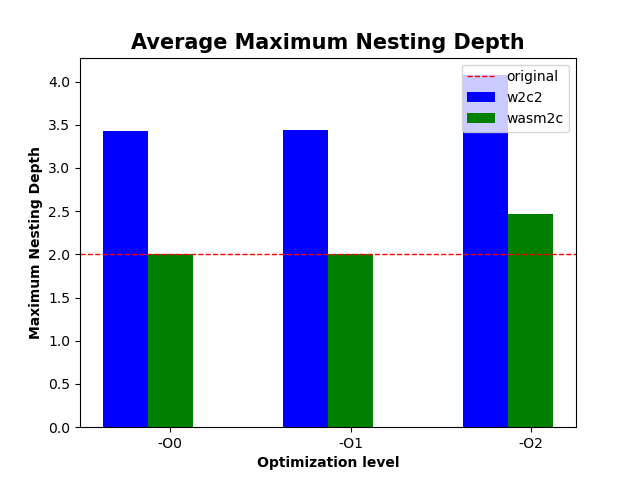
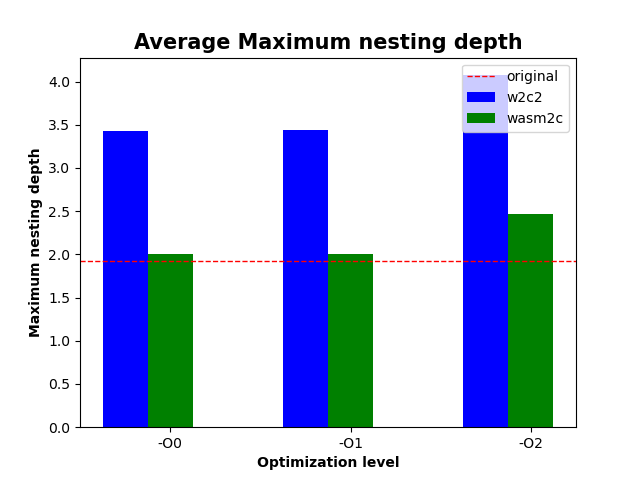
Plot average change from original source code

diff --git a/metrics/analysis/plot_results.py b/metrics/analysis/plot_results.py
@@ -1,12 +1,15 @@
 from pathlib import Path
 import json
 import statistics
+import logging
 
 import matplotlib.pyplot as plt
 import numpy as np
 
 
 def main():
+    configure_logger(logging.INFO)
+
     results_dir = Path(__file__).absolute().parent.parent / "results"
 
     data = {
@@ -29,9 +32,9 @@ def main():
         "Lines of code",
         "Halstead complexity difficulty measure",
         "McCabe cyclomatic complexity",
-        "Maximum Nesting Depth",
+        "Maximum nesting depth",
     ]:
-        plot_metric_averages(metric, data)
+        # plot_metric_averages(metric, data)
         plot_average_metric_changes(metric, data)
 
 
@@ -82,8 +85,127 @@ def plot_metric_averages(metric, data):
 
 
 def plot_average_metric_changes(metric, data):
-    # TODO: implement
-    pass
+    plot_data = get_average_metric_changes(metric, data)
+    print(json.dumps(plot_data, indent=2))
+
+    bar_width = 0.25
+    fig = plt.subplots()
+
+    w2c2_averages = [
+        plot_data["o0_w2c2"]["average"],
+        plot_data["o1_w2c2"]["average"],
+        plot_data["o2_w2c2"]["average"],
+    ]
+    wasm2c_averages = [
+        plot_data["o0_wasm2c"]["average"],
+        plot_data["o1_wasm2c"]["average"],
+        plot_data["o2_wasm2c"]["average"],
+    ]
+    w2c2_margins_from_average = [
+        [
+            plot_data["o0_w2c2"]["average"] - plot_data["o0_w2c2"]["min"],
+            plot_data["o1_w2c2"]["average"] - plot_data["o1_w2c2"]["min"],
+            plot_data["o2_w2c2"]["average"] - plot_data["o2_w2c2"]["min"],
+        ],
+        [
+            plot_data["o0_w2c2"]["max"] - plot_data["o0_w2c2"]["average"],
+            plot_data["o1_w2c2"]["max"] - plot_data["o1_w2c2"]["average"],
+            plot_data["o2_w2c2"]["max"] - plot_data["o2_w2c2"]["average"],
+        ],
+    ]
+    wasm2c_margins_from_average = [
+        [
+            plot_data["o0_wasm2c"]["average"] - plot_data["o0_wasm2c"]["min"],
+            plot_data["o1_wasm2c"]["average"] - plot_data["o1_wasm2c"]["min"],
+            plot_data["o2_wasm2c"]["average"] - plot_data["o2_wasm2c"]["min"],
+        ],
+        [
+            plot_data["o0_wasm2c"]["max"] - plot_data["o0_wasm2c"]["average"],
+            plot_data["o1_wasm2c"]["max"] - plot_data["o1_wasm2c"]["average"],
+            plot_data["o2_wasm2c"]["max"] - plot_data["o2_wasm2c"]["average"],
+        ],
+    ]
+
+    br1 = np.arange(len(w2c2_averages))
+    br2 = [x + bar_width for x in br1]
+
+    plt.bar(
+        br1,
+        w2c2_averages,
+        yerr=w2c2_margins_from_average,
+        capsize=10,
+        color="b",
+        width=bar_width,
+        label="w2c2",
+    )
+    plt.bar(
+        br2,
+        wasm2c_averages,
+        yerr=wasm2c_margins_from_average,
+        capsize=10,
+        color="g",
+        width=bar_width,
+        label="wasm2c",
+    )
+
+    plt.title(
+        f"Average change from original code\nfor metric '{metric}'",
+        fontweight="bold",
+        fontsize=15,
+    )
+    plt.xlabel("Optimization level", fontweight="bold", fontsize=10)
+    plt.ylabel(metric, fontweight="bold", fontsize=10)
+    plt.xticks(
+        [r + bar_width for r in range(len(w2c2_averages))], ["-O0", "-O1", "-O2"]
+    )
+
+    plt.legend()
+    plt.savefig(f"average_delta_{metric.replace(' ', '_').lower()}.png")
+
+
+def get_average_metric_changes(metric, data):
+    average_metric_changes = dict()
+    original_dataset = "original_src"
+    for dataset in data.keys():
+        if dataset == "original_src":
+            continue
+        decompiled_dataset = dataset
+        logging.info(
+            f"Calculating '{metric}' deltas between {original_dataset} and {decompiled_dataset}"
+        )
+
+        metric_deltas = []
+        for program in data[original_dataset]:
+            if program not in data[decompiled_dataset]:
+                # logging.warning(
+                #     f"Skipping {program} since it's only in original_src dataset"
+                # )
+                continue
+
+            metric_delta = (
+                data[decompiled_dataset][program][metric]
+                - data[original_dataset][program][metric]
+            )
+            metric_deltas.append(metric_delta)
+
+            if metric_delta < 0:
+                logging.info(
+                    f"Negative delta for {decompiled_dataset}, {program}, {metric}: {metric_delta}"
+                )
+
+        average = statistics.mean(metric_deltas)
+        pstdev = statistics.pstdev(metric_deltas)
+        mn = min(metric_deltas)
+        mx = max(metric_deltas)
+
+        average_metric_changes[dataset] = {
+            "average": average,
+            "pstdev": pstdev,
+            "min": mn,
+            "max": mx,
+        }
+
+    return average_metric_changes
 
 
 def get_metric_statistics_for_dataset(metric, dataset, data):
@@ -96,6 +218,14 @@ def get_metric_statistics_for_dataset(metric, dataset, data):
     pstdev = statistics.pstdev(metric_values)  # population standard deviation
 
     return average, pstdev
+
+
+def configure_logger(log_level):
+    logging.basicConfig(
+        format="[%(asctime)s.%(msecs)03d %(levelname)s]: %(message)s",
+        datefmt="%H:%M:%S",
+        level=log_level,
+    )
 
 
 if __name__ == "__main__":
